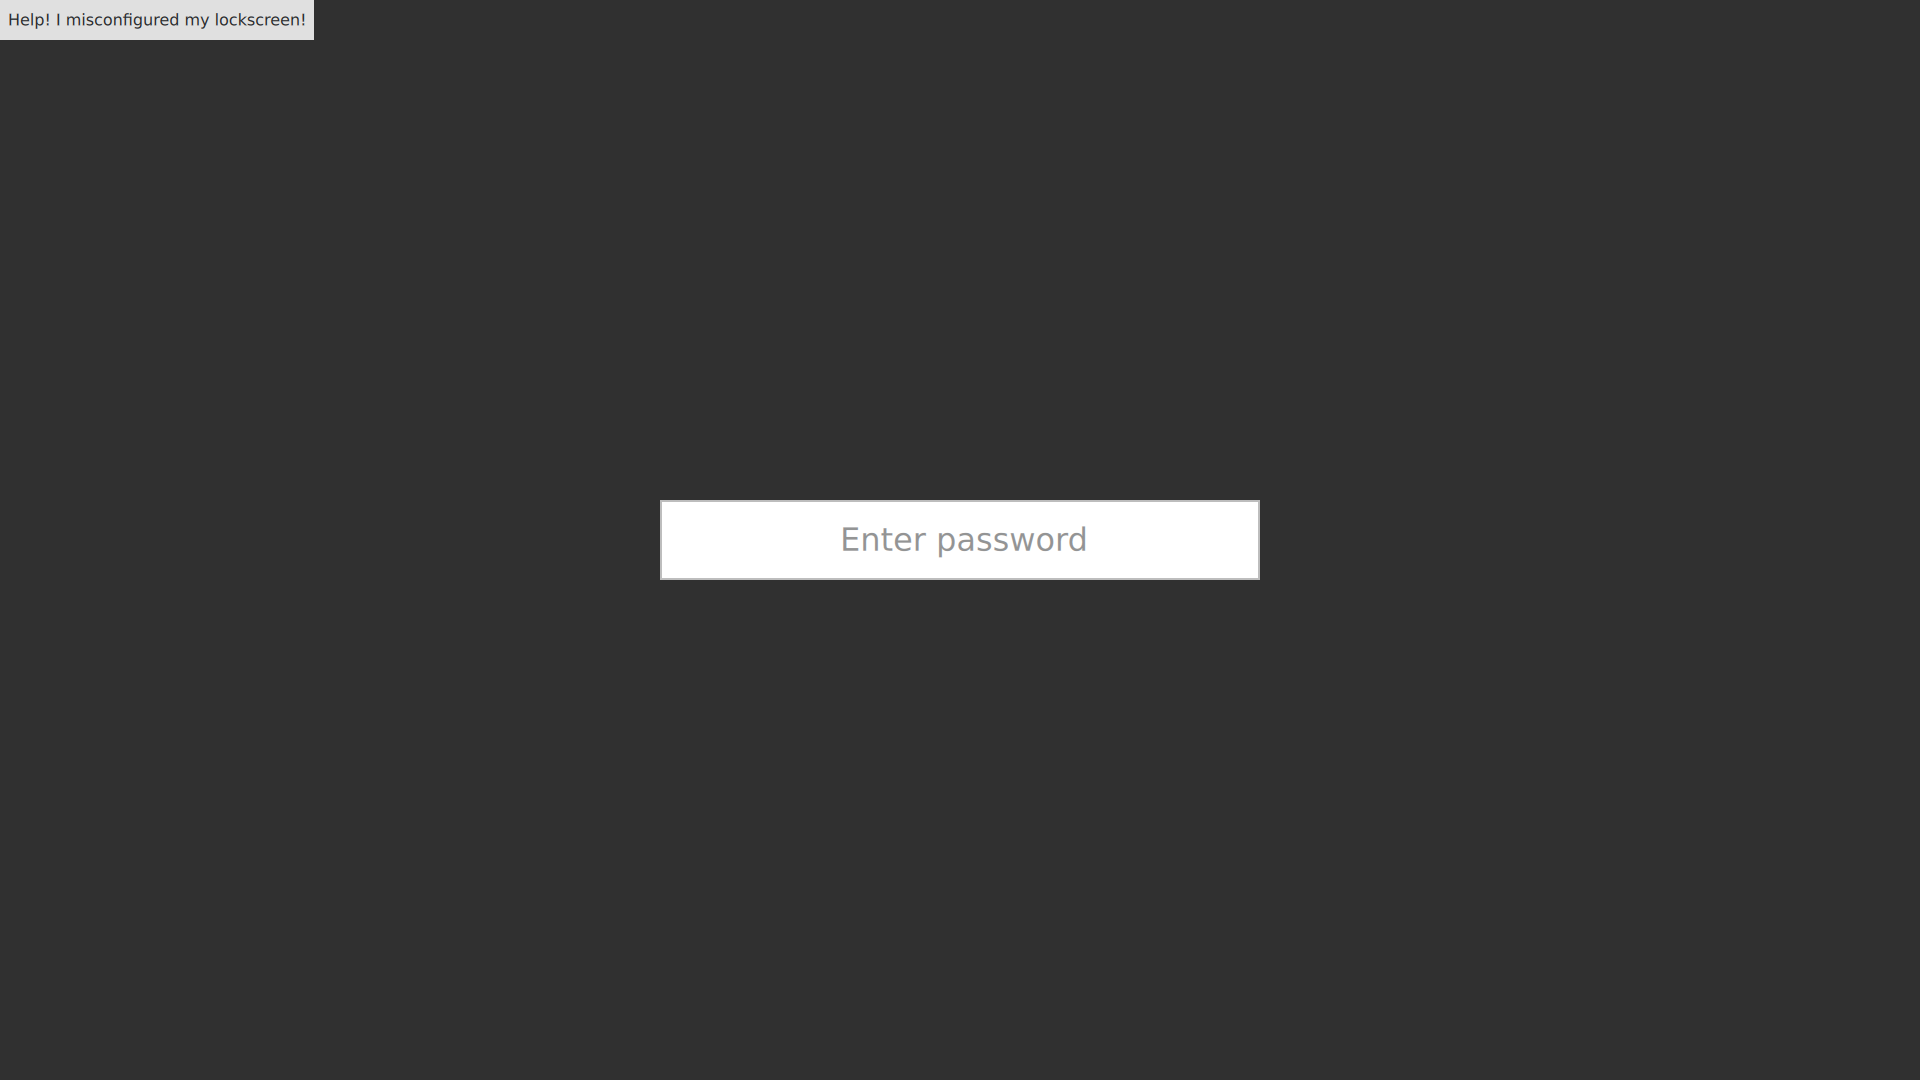
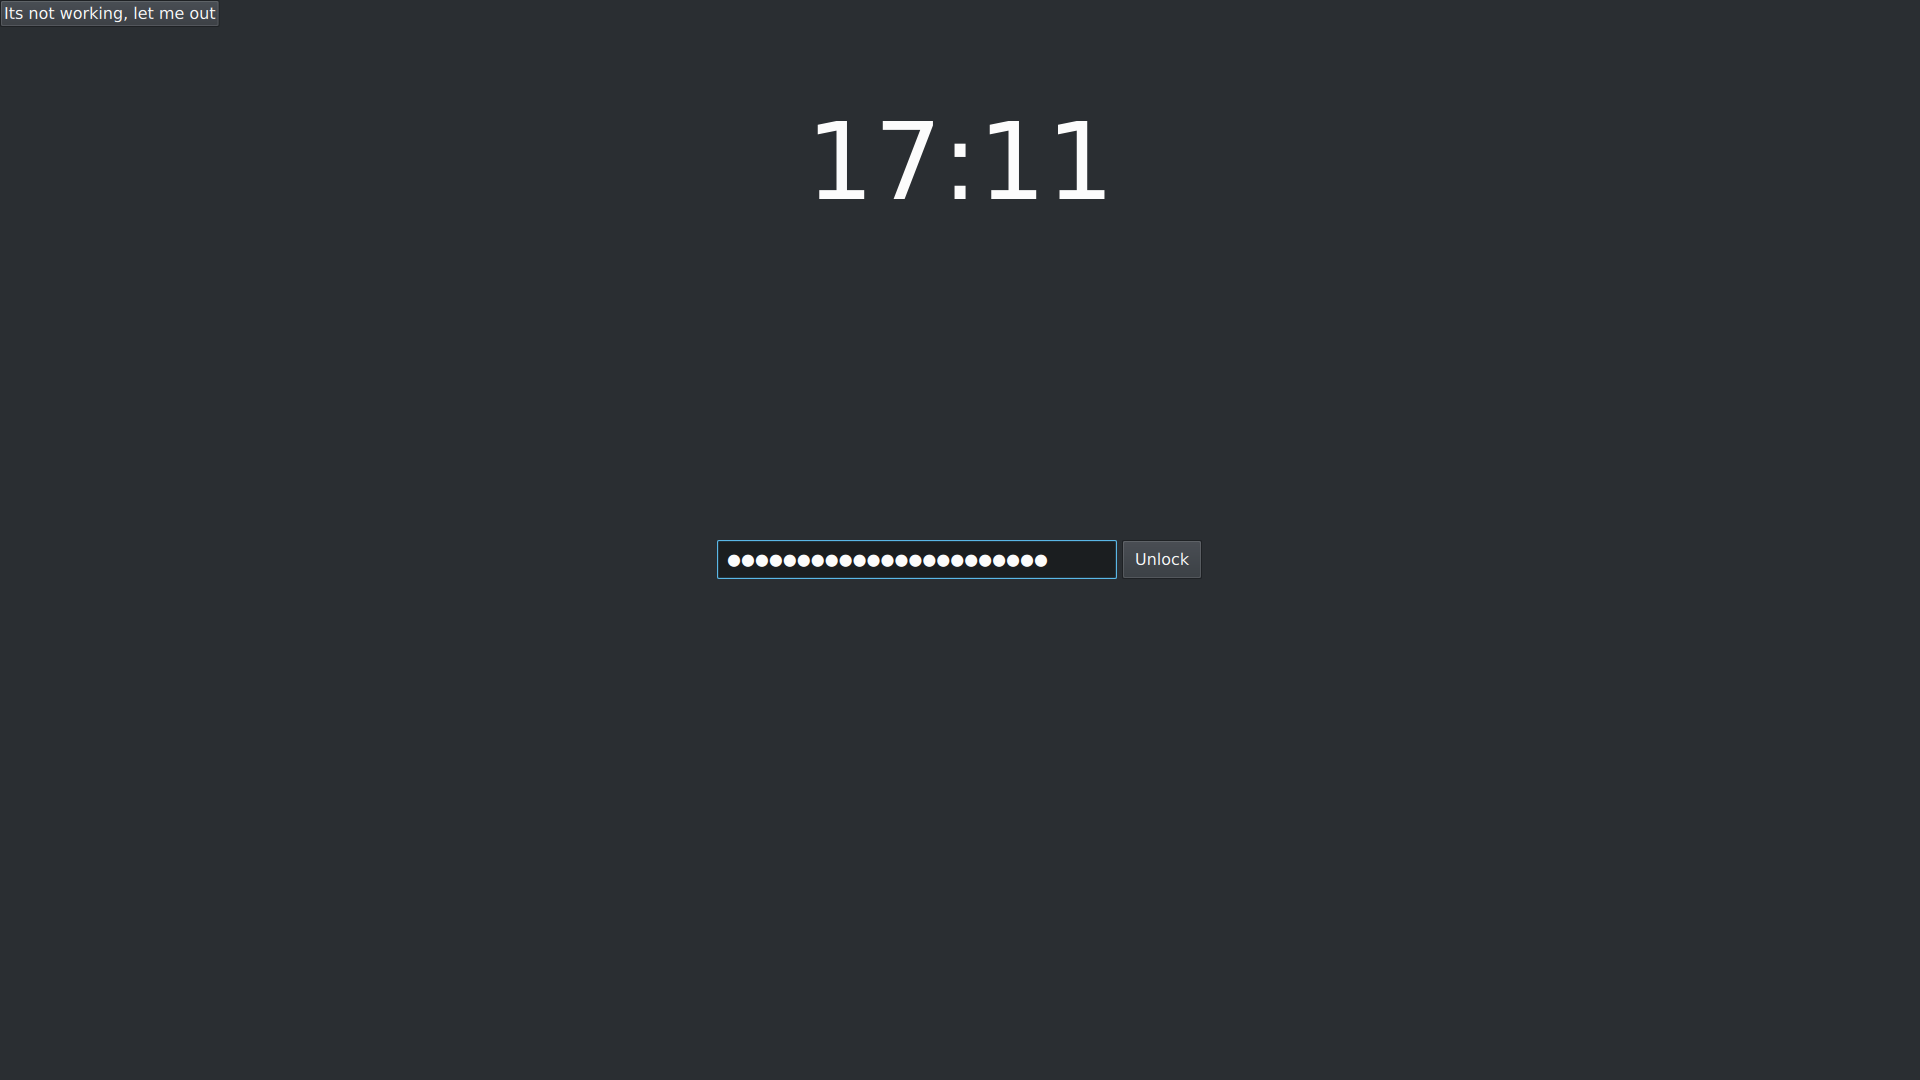
lockscreen: replace lockscreen example
The new one uses the pam module and looks much nicer.

Changed region(s): [[0.3438, 0.4583, 0.6562, 0.55], [0.4062, 0.0917, 0.5938, 0.1833], [0.0, 0.0, 0.1875, 0.0611]]

diff --git a/lockscreen/LockSurface.qml b/lockscreen/LockSurface.qml
@@ -1,0 +1,104 @@
+import QtQuick
+import QtQuick.Layouts
+import QtQuick.Controls.Fusion
+import Quickshell.Wayland
+
+Rectangle {
+	id: root
+	required property LockContext context
+	readonly property ColorGroup colors: Window.active ? palette.active : palette.inactive
+
+	color: colors.window
+
+	Button {
+		text: "Its not working, let me out"
+		onClicked: context.unlocked();
+	}
+
+	Label {
+		id: clock
+		property var date: new Date()
+
+		anchors {
+			horizontalCenter: parent.horizontalCenter
+			top: parent.top
+			topMargin: 100
+		}
+
+		// The native font renderer tends to look nicer at large sizes.
+		renderType: Text.NativeRendering
+		font.pointSize: 80
+
+		// updates the clock every second
+		Timer {
+			running: true
+			repeat: true
+			interval: 1000
+
+			onTriggered: clock.date = new Date();
+		}
+
+		// updated when the date changes
+		text: {
+			const hours = this.date.getHours().toString().padStart(2, '0');
+			const minutes = this.date.getMinutes().toString().padStart(2, '0');
+			return `${hours}:${minutes}`;
+		}
+	}
+
+	ColumnLayout {
+		// Uncommenting this will make the password entry invisible except on the active monitor.
+		// visible: Window.active
+
+		anchors {
+			horizontalCenter: parent.horizontalCenter
+			top: parent.verticalCenter
+		}
+
+		RowLayout {
+			TextField {
+				id: passwordBox
+
+				implicitWidth: 400
+				padding: 10
+
+				focus: true
+				enabled: !root.context.unlockInProgress
+				echoMode: TextInput.Password
+				inputMethodHints: Qt.ImhSensitiveData
+
+				// Update the text in the context when the text in the box changes.
+				onTextChanged: root.context.currentText = this.text;
+
+				// Try to unlock when enter is pressed.
+				onAccepted: root.context.tryUnlock();
+
+				// Update the text in the box to match the text in the context.
+				// This makes sure multiple monitors have the same text.
+				Connections {
+					target: root.context
+
+					function onCurrentTextChanged() {
+						passwordBox.text = root.context.currentText;
+					}
+				}
+			}
+
+			Button {
+				text: "Unlock"
+				padding: 10
+
+				// don't steal focus from the text box
+				focusPolicy: Qt.NoFocus
+
+				enabled: !root.context.unlockInProgress && root.context.currentText !== "";
+				onClicked: root.context.tryUnlock();
+			}
+		}
+
+		Label {
+			visible: root.context.showFailure
+			text: "Incorrect password"
+		}
+	}
+}

diff --git a/lockscreen/LockContext.qml b/lockscreen/LockContext.qml
@@ -1,0 +1,54 @@
+import QtQuick
+import Quickshell
+import Quickshell.Services.Pam
+
+Scope {
+	id: root
+	signal unlocked()
+	signal failed()
+
+	// These properties are in the context and not individual lock surfaces
+	// so all surfaces can share the same state.
+	property string currentText: ""
+	property bool unlockInProgress: false
+	property bool showFailure: false
+
+	// Clear the failure text once the user starts typing.
+	onCurrentTextChanged: showFailure = false;
+
+	function tryUnlock() {
+		if (currentText === "") return;
+
+		root.unlockInProgress = true;
+		pam.start();
+	}
+
+	PamContext {
+		id: pam
+
+		// Its best to have a custom pam config for quickshell, as the system one
+		// might not be what your interface expects, and break in some way.
+		// This particular example only supports passwords.
+		configDirectory: "pam"
+		config: "password.conf"
+
+		// pam_unix will ask for a response for the password prompt
+		onPamMessage: {
+			if (this.responseRequired) {
+				this.respond(root.currentText);
+			}
+		}
+
+		// pam_unix won't send any important messages so all we need is the completion status.
+		onCompleted: result => {
+			if (result == PamResult.Success) {
+				root.unlocked();
+			} else {
+				root.currentText = "";
+				root.showFailure = true;
+			}
+
+			root.unlockInProgress = false;
+		}
+	}
+}

diff --git a/lockscreen/shell.qml b/lockscreen/shell.qml
@@ -1,38 +1,31 @@
-import QtQuick
-import QtQuick.Controls.Basic
 import Quickshell
 import Quickshell.Wayland
 
 ShellRoot {
-	AuthContext {
-		id: authContext
-		onUnlocked: lock.locked = false
+	// This stores all the information shared between the lock surfaces on each screen.
+	LockContext {
+		id: lockContext
+
+		onUnlocked: {
+			// Unlock the screen before exiting, or the compositor will display a
+			// fallback lock you can't interact with.
+			lock.locked = false;
+
+			Qt.quit();
+		}
 	}
 
 	WlSessionLock {
 		id: lock
+
+		// Lock the session immediately when quickshell starts.
 		locked: true
 
-		onLockedChanged: {
-			if (!locked) Qt.quit();
-		}
-
 		WlSessionLockSurface {
-			// You probably want to replace this with an image.
-			color: "#303030"
-
-			// For your own sanity you should probably keep this
-			// while working on the lockscreen.
-			Button {
-				text: "Help! I misconfigured my lockscreen!"
-				onClicked: lock.locked = false
-			}
-
-			Lockscreen {
+			LockSurface {
 				anchors.fill: parent
-				context: authContext
+				context: lockContext
 			}
 		}
 	}
-
 }

diff --git a/lockscreen/test.qml b/lockscreen/test.qml
@@ -2,17 +2,24 @@ import QtQuick
 import Quickshell
 
 ShellRoot {
-	AuthContext {
-		id: authContext
-		onUnlocked: Qt.quit()
+	LockContext {
+		id: lockContext
+		onUnlocked: Qt.quit();
 	}
 
 	FloatingWindow {
-		color: "#303030"
-
-		Lockscreen {
+		LockSurface {
 			anchors.fill: parent
-			context: authContext
+			context: lockContext
+		}
+	}
+
+	// exit the example if the window closes
+	Connections {
+		target: Quickshell
+
+		function onLastWindowClosed() {
+			Qt.quit();
 		}
 	}
 }

diff --git a/lockscreen/README.md b/lockscreen/README.md
@@ -1,7 +1,7 @@
 # Lockscreen
 
-This is a barebones lockscreen with a password input box.
-Note that you MUST have `pamtester` installed or you won't be able to log in.
+This is a simple but functional lockscreen that follows the system color scheme.
+The only authentication method it supports is a password.
 
 You can run the lockscreen with `quickshell -p shell.qml`.
 
